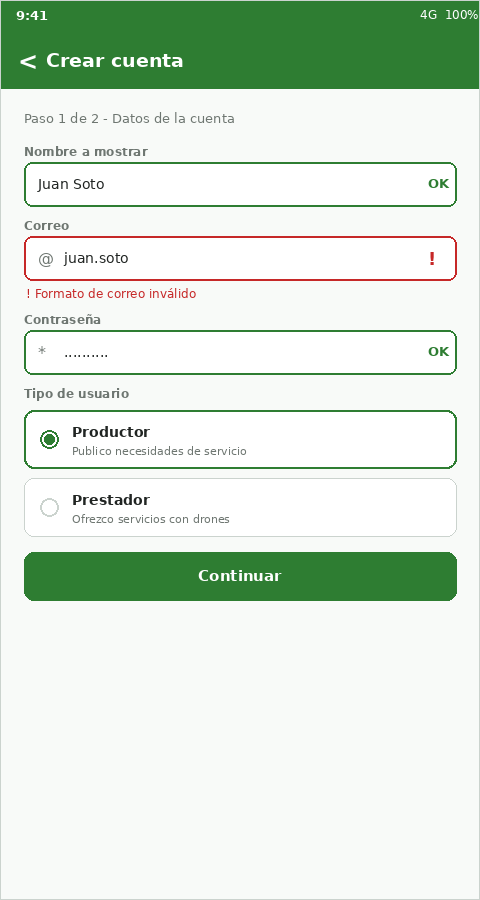
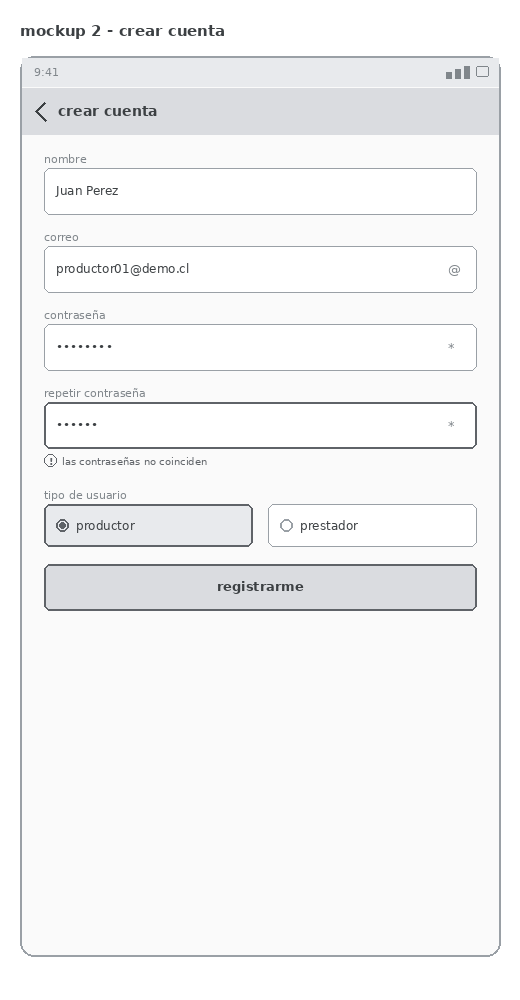
docs: rehago los mockups como maqueta en gris para centrarnos en la estructura

Changed region(s): [[0.0, 0.0, 1.0, 0.9644], [0.0, 0.9956, 1.0, 1.0]]

diff --git a/docs/mockups/README.md b/docs/mockups/README.md
@@ -3,6 +3,10 @@
 Estos son los mockups que armamos antes de empezar a programar, para tener claro
 qué pantallas necesita la app y qué va en cada una.
 
+Los dejamos en gris a propósito. La idea era definir primero la estructura de cada
+pantalla, dónde va cada cosa y cómo se pasa de una a otra, sin pelear con los
+colores. La paleta la aplicamos cuando empecemos a programar las vistas.
+
 El caso es el de TECMUNDO (Duoc UC, DSY1105). La empresa trabaja con drones y
 agricultura de precisión, y lo que nos piden es un MVP que conecte a los
 agricultores que necesitan un servicio con los prestadores que lo ofrecen.
@@ -12,7 +16,8 @@ La app la vamos a llamar **TecMundo Match**.
 
 ## Paleta de colores
 
-Elegimos verde porque la app es del rubro agrícola y se entiende al tiro de qué se trata.
+Esta es la paleta que acordamos para cuando programemos las pantallas. Elegimos
+verde porque la app es del rubro agrícola y se entiende al tiro de qué se trata.
 
 | Uso | Color |
 |---|---|
@@ -134,4 +139,4 @@ publicadas.
 Los mockups todavía pueden cambiar cuando empecemos a programar, sobre todo el
 cálculo del porcentaje de compatibilidad, que es la parte que falta definir mejor.
 
-Cada pantalla tiene su issue en el repositorio con las tareas que hay que hacer.
+Cada pantalla tiene su issue en el milestone de mockups, repartidos entre los dos.
